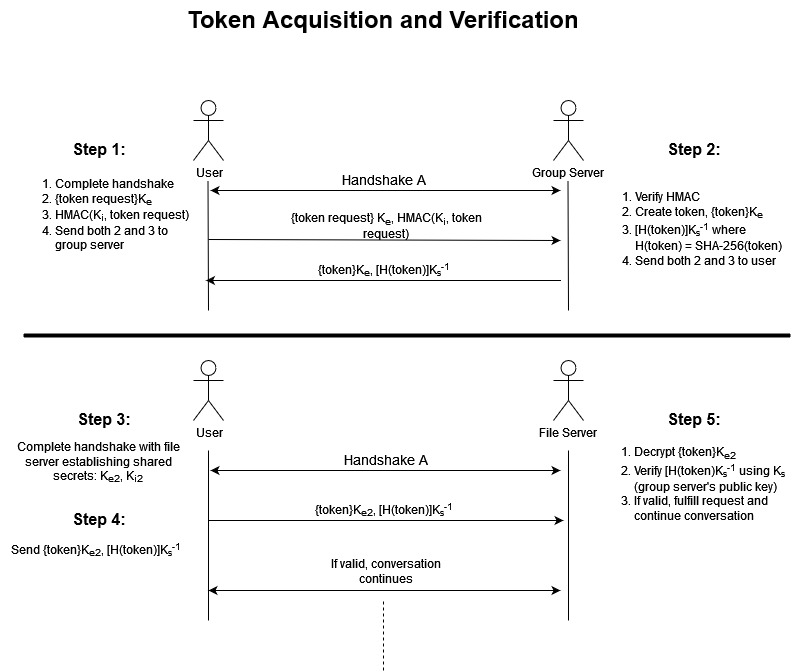
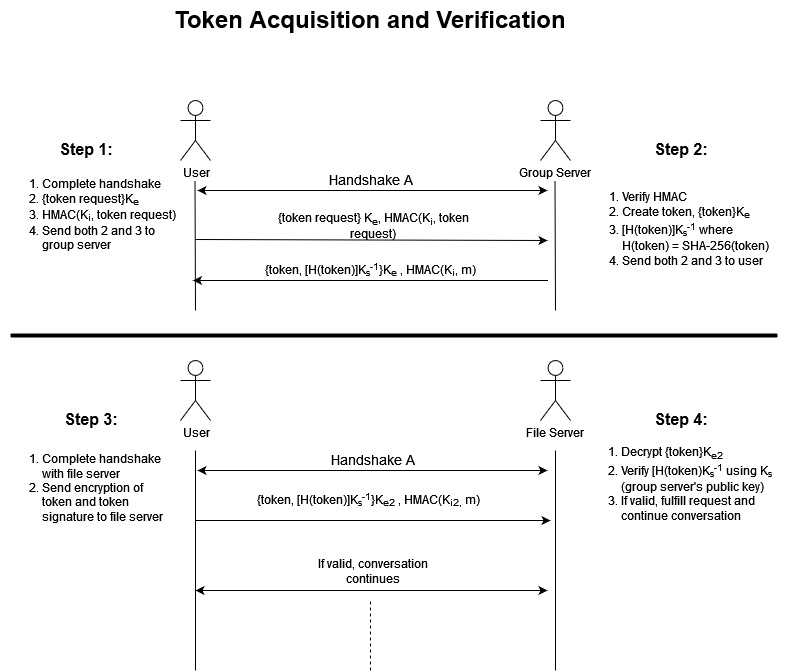
Fixed diagrams and added elliptic curve impl

diff --git a/doc/phase3-writeup.html b/doc/phase3-writeup.html
@@ -58,11 +58,16 @@
       Public keys are verified out-of-band which is reasonable given a company scenario where out-of-band communication
       is possible and expected.
       <br>
-      The threat model for this phase requires: group server and user authentication,  file server and user authentication, 
-      token integrity verification and protection against passive monitoring. The system uses RSA, SHA-256, HMACs, ECC, and 
-      AES to accomplish these goals. RSA is the standard solution for the key distribution problem which the system uses, along 
-      with a Diffie-Helman exchange, to create a shared symmetric key. This allows for users and servers to communicate effectively 
-      while preserving confidentiality using AES. SHA-256 and HMAC protocol are integral to the systems protocol because it is used alongside 
+      The threat model for this phase requires: group server and user authentication, file server and user
+      authentication,
+      token integrity verification and protection against passive monitoring. The system uses RSA, SHA-256, HMACs, ECC,
+      and
+      AES to accomplish these goals. RSA is the standard solution for the key distribution problem which the system
+      uses, along
+      with a Diffie-Helman exchange, to create a shared symmetric key. This allows for users and servers to communicate
+      effectively
+      while preserving confidentiality using AES. SHA-256 and HMAC protocol are integral to the systems protocol because
+      it is used alongside
       AES and RSA to ensure the integrity of the messages while in transit.
     </p>
 
@@ -102,36 +107,31 @@
       with an Admin that the key is legitimate. The client app will maintain a list of
       public keys of servers it has connected to in the past.
     </p>
-    <p>Mutual authentication and the establishment of a session will take place using Diffie-Helman. See Handshake A
-      diagram below. To initiate a connection to the server, a user will first choose a random ‘a’ from a public
-      finite cyclic group G of large prime order q, along with a public g generator. They will compute g<sup>a</sup>
-      (mod q)
-      and also sign a SHA-256 hash of it with their private RSA key K<sub>u</sub><sup>-1</sup>. The hash is required
-      because g<sup>a</sup> (mod q) would be too long (because we will pick large primes to make it hard to brute-force)
-      to sign with RSA otherwise. SHA-2 is chosen because it is considered secure currently unlike the Mx series or
-      SHA-1.
-      They will then send g<sup>a</sup> (mod q) and the signed hash along with
-      their RSA public key (as a marker for who they are) to the server. Upon receiving this, the group server will
-      choose a random ‘b’ in the same group, compute g<sup>b</sup> (mod q), sign a hash of it with its private RSA key
-      K<sub>s</sub><sup>-1</sup>, and send
-      both to the user. Both the user and the server will then compute a shared secret K = g<sup>ab</sup> (mod q) which
-      will be used to derive symmetric session keys.
+    <p>
+      Establishment of a secure session over an insecure network will take place using Elliptic Curve Diffie-Helman
+      adapted
+      from the bouncy castle library. To initiate a connection to the server, Diffie-Helman parameters are fetched and a
+      key
+      pair is generated with the elliptic curve and the parameters. The user now has a public and private key. The user
+      then
+      sends their public key (signed with their RSA public key) to the server. The group server will do the exact same
+      steps.
+      Using a key agreement and the elliptic curve Diffie-Helman algorithm as well as the provider Bouncy Castle, the
+      user and
+      the server will then generate a shared secret which will be used to derive symmetric session keys.
     </p>
     <div class="img">
-      <img src="./img/handshakeA.jpg" alt="Diagram of mutual auth and session establishment protocol.">
+      <img src="./img/handshakeA.jpg" alt="Diagram of session establishment protocol.">
     </div>
 
-    <p>Going back to threat 1, Alice, given that she does not have access to Bob’s private key in this scenario will not
-      be able to sign g<sup>a</sup> (mod q) and so won’t be able to derive the shared secret to be able to get the
-      token.
-    </p>
-
     <p>
-    We also added a timestamp field to the token in order to track the expiration of tokens. Tokens expire after 1 hour to ensure users are 
-    properly authorized by the group server. Without this, tokens could be indefinitely reused, allowing for users to gain access to groups 
-    they have been previously removed from. 
-    File servers will reject any expired tokens and inform the user to request a new token from the group server.
-    </p>  
+      We also added a timestamp field to the token in order to track the expiration of tokens. Tokens expire after 1
+      hour to ensure users are
+      properly authorized by the group server. Without this, tokens could be indefinitely reused, allowing for users to
+      gain access to groups
+      they have been previously removed from.
+      File servers will reject any expired tokens and inform the user to request a new token from the group server.
+    </p>
     <!-- END CHANGES HERE -->
   </section>
   <section id="threat2">
@@ -157,16 +157,21 @@
       user requests a token. Once completed and upon a token request, the group server will create the token as before,
       but also hash the token using SHA-256 (to reduce the size) and sign the hash using its private RSA key
       K<sub>s</sub><sup>-1</sup>.
-      It will then send both the token and the signature to the user.
+      It will then send the token, the signature, and the HMAC to the user.
 
     </p>
     <p>To use the token, the user will first mutually authenticate with the file server and establish a shared secret,
-      the process of which is described in threat 3. Once completed, the user will hand both the token and the signature
-      to the file server which will then verify the signature using the group server’s public key K<sub>s</sub>, compute
-      the hash
-      of the token using the same algorithm as the group server, and compare the two hashes to check for a match. The
-      file server will have access to the group server’s public key because the user who creates the file server will
-      register it with the file server.
+      the process of which is described in threat 3. Once completed, the user will hand the token, the signature, and
+      the HMAC
+      of the message to the file server which will then compute the HMAC to verify the integrity of the message.
+      Then the file server will verify the signature using the group server’s public key K<sub>s</sub>, compute the hash
+      using the same
+      algorithm as the group server, compare the two hashes to check for a match. The file server will have access to
+      the
+      group server’s public key because the user who creates the file server will register it with the file server.
+      Integrity
+      is largely covered here by the signed hash but, including the HMAC adds a layer of security and simlifies the
+      implementation.
 
     </p>
     <div class="img">
@@ -193,8 +198,9 @@
       could also download a file thinking it is legitimate but instead be given malware. This is because users currently
       connect to the file server and do not authenticate it in any way, instead just blindly handing it a token and
       downloading/uploading files.
+    </p>
 
-    <p>We will secure this threat using an approach similar to SSH and the protocol described in T1 for the group
+    <p>We will secure this threat using the same approach described in T1 for the group
       server. Algorithm and key size choices are made using the same reasoning described in T1. The first time a user
       connects to a file server, it will display its public key which the user will be responsible for verifying
       out-of-band.
@@ -202,28 +208,19 @@
       users will have methods of contacting the file server creator and/or an admin. The client app will maintain a list
       of public keys of file servers it has connected to in the past, so on subsequent connections to the file server,
       the user will know the server’s public key.
+      <br>
+      Connections to a file server will be secure by doing the same method mentioned in Threat 1 with Elliptic curves
+      and Diffie-Helman.
+      Refer back to T1 if needed.
 
     </p>
-    <p>To initiate a connection to the server, a user will first choose a random ‘a’ from a public finite cyclic group G
-      of large prime order q, along with a public g generator. They will then compute g<sup>a</sup> (mod q) and also
-      sign a SHA-256
-      hash of it with their private RSA key K<sub>u</sub><sup>-1</sup>. The hash is required because g<sup>a</sup> (mod
-      q) would be too long (because
-      we will pick large primes to make it hard to brute-force) to sign with RSA otherwise. They will then send
-      g<sup>a</sup> (mod
-      q) and the signed hash along with their RSA public key (as a marker for who they are) to the server. Upon
-      receiving this, the file server will choose a ‘b’ in the same group, compute g<sup>b</sup> (mod q), sign a hash of
-      it with
-      its private RSA key K<sub>s</sub><sup>-1</sup>, and send both to the user. Both the user and the server will then
-      compute a shared
-      secret K = g<sup>ab</sup> (mod q) which will be used to derive symmetric session keys.
 
     <p>Asymmetric ciphers are slow and are limited in the amount of data they can encrypt which will be a problem since
       files are expected to be much larger than the RSA key size. Therefore the rest of the session will be conducted
       using AES-256 symmetric key protocol with CBC mode and PKCS7Padding. The encryption key for the AES-256 protocol
-      will be K<sub>e</sub> = SHA-256(K<sub>ab</sub> || H || “AES Confidentiality”) where H is a SHA-256 hash of the
+      will be K<sub>e</sub> = SHA-256(K<sub>ab</sub> || “AES Confidentiality”) where H is a SHA-256 hash of the
       messages up to this
-      point. The integrity key will be K<sub>i</sub> = SHA-256(K<sub>ab</sub> || H || “AES Integrity”) where H is a
+      point. The integrity key will be K<sub>i</sub> = SHA-256(K<sub>ab</sub> || “AES Integrity”) where H is a
       SHA-256 hash of the
       messages up to this point. Every message sent between the client and servers will be encrypted by the sender using
       AES-256 in CBC mode with PKCS7Padding with K<sub>e</sub>. The sender will also create an HMAC using the message m
@@ -243,9 +240,7 @@
 
     </p>
     <p>Going back to the example, a user connecting to s can now be assured they are not actually connecting to an
-      impersonator because an impersonator would not be able to sign g<sup>a</sup> (mod q) because they will not have
-      s’s private
-      key.
+      impersonator because an impersonator would not be able to sign because they will not have s’s private key.
     </p>
 
     <!-- END CHANGES HERE -->
@@ -268,10 +263,10 @@
       AES-256 symmetric keys to provide confidentiality and integrity for all communications.
     </p>
     <p>How the symmetric keys provide confidentiality and integrity is as follows: </p>
-    <p>The encryption key for the AES-256 protocol will be K<sub>e</sub> = SHA-256(K<sub>ab</sub> || H || “AES
+    <p>The encryption key for the AES-256 protocol will be K<sub>e</sub> = SHA-256(K<sub>ab</sub> || “AES
       Confidentiality”) where H is a
-      SHA-256 hash of the messages up to this point. The integrity key will be K<sub>i</sub> = SHA-256(K<sub>ab</sub> ||
-      H || “AES Integrity”)
+      SHA-256 hash of the messages up to this point. The integrity key will be K<sub>i</sub> = SHA-256(K<sub>ab</sub>
+      || “AES Integrity”)
       where H is a SHA-256 hash of the messages up to this point. Every message sent between the client and servers will
       be encrypted by the sender using AES-256 in CBC mode with PKCS7Padding with K<sub>e</sub>. The sender will also
       create an
@@ -281,9 +276,11 @@
       message and extending the hash.
     </p>
     <p>
-      In order to transmit objects, like Token and array lists, we will be using Java SealedObject to serialize and encrypt the Token. 
-      This allows us to easily encrypt and decrypt objects without concerns of serialization vulnerabilities. 
-      Improper serialization could lead to information leakage in which a passive monitor could deduce the type of the encrypted object.
+      In order to transmit objects, like Token and array lists, we will be using Java SealedObject to serialize and
+      encrypt the Token.
+      This allows us to easily encrypt and decrypt objects without concerns of serialization vulnerabilities.
+      Improper serialization could lead to information leakage in which a passive monitor could deduce the type of the
+      encrypted object.
     </p>
     <p>Under the trust model for phase 3, group and file servers are assumed to be secure, and the only snooping threat
       is in transit.
@@ -295,17 +292,25 @@
     <h2>Discussion</h2>
     <!-- BEGIN CHANGES HERE -->
 
-    <p>These mechanisms work in tandem to ensure confidentiality and integrity while exchanging information. 
-      Handshake A ensures a secure key exchange between client and server while AES and HMACs ensure secure communication. 
-      This core design addresses the T1,T3 and T4 while T2 is covered by the use of a signed version of the token. Our group came 
-      to this solution by iterating upon our design with each added threat. First Handshake A as our solution to T1 provided a basis 
-      for server-client key exchange. Our solution T3 and T4 built on this idea by using AES and HMACs along with the shared key generated 
-      in Handshake A. To incorporate T2 required a modification to Handshake A for the file server and user to use in which the user sends a 
-      token signed by the group server to ensure the integrity of the token. We later addressed information leakage and integrity issues with 
-      Tokens by serializing the Token using SealObject and adding a timestamp field to Tokens for the purpose of tracking expiration. git push
-      We thought about implementing a password system, but this would require us to flush out an entire system to share, store and access.</p>
+    <p>These mechanisms work in tandem to ensure confidentiality and integrity while exchanging information.
+      Handshake A ensures a secure key exchange between client and server while AES and HMACs ensure secure
+      communication.
+      This core design addresses the T1,T3 and T4 while T2 is covered by the use of a signed version of the token. Our
+      group came
+      to this solution by iterating upon our design with each added threat. First Handshake A as our solution to T1
+      provided a basis
+      for server-client key exchange. Our solution T3 and T4 built on this idea by using AES and HMACs along with the
+      shared key generated
+      in Handshake A. To incorporate T2 required a modification to Handshake A for the file server and user to use in
+      which the user sends a
+      token signed by the group server to ensure the integrity of the token. We later addressed information leakage and
+      integrity issues with
+      Tokens by serializing the Token using SealObject and adding a timestamp field to Tokens for the purpose of
+      tracking expiration. git push
+      We thought about implementing a password system, but this would require us to flush out an entire system to share,
+      store and access.</p>
 
-    
+
 
     <!-- END CHANGES HERE -->
   </section>
